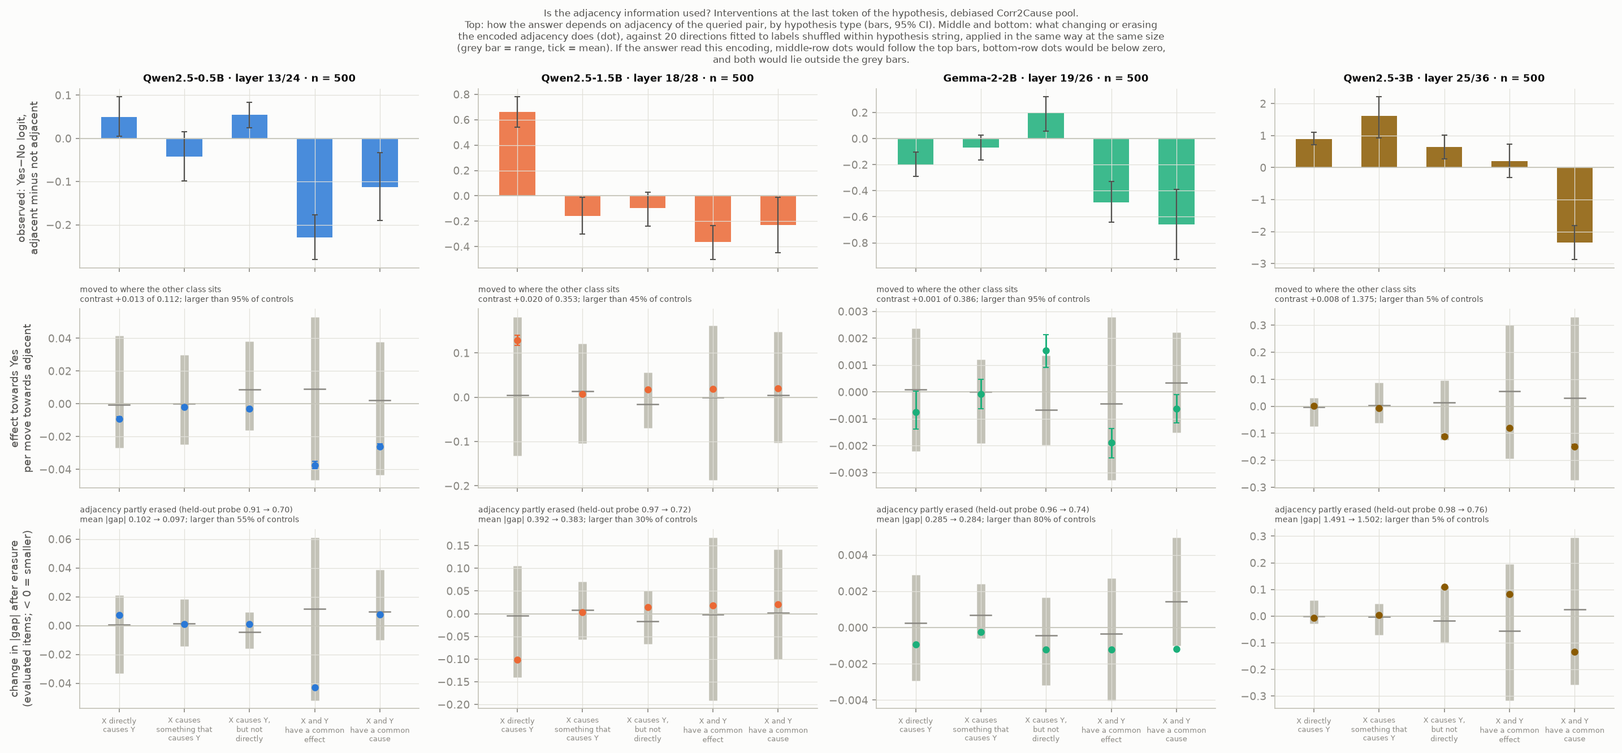
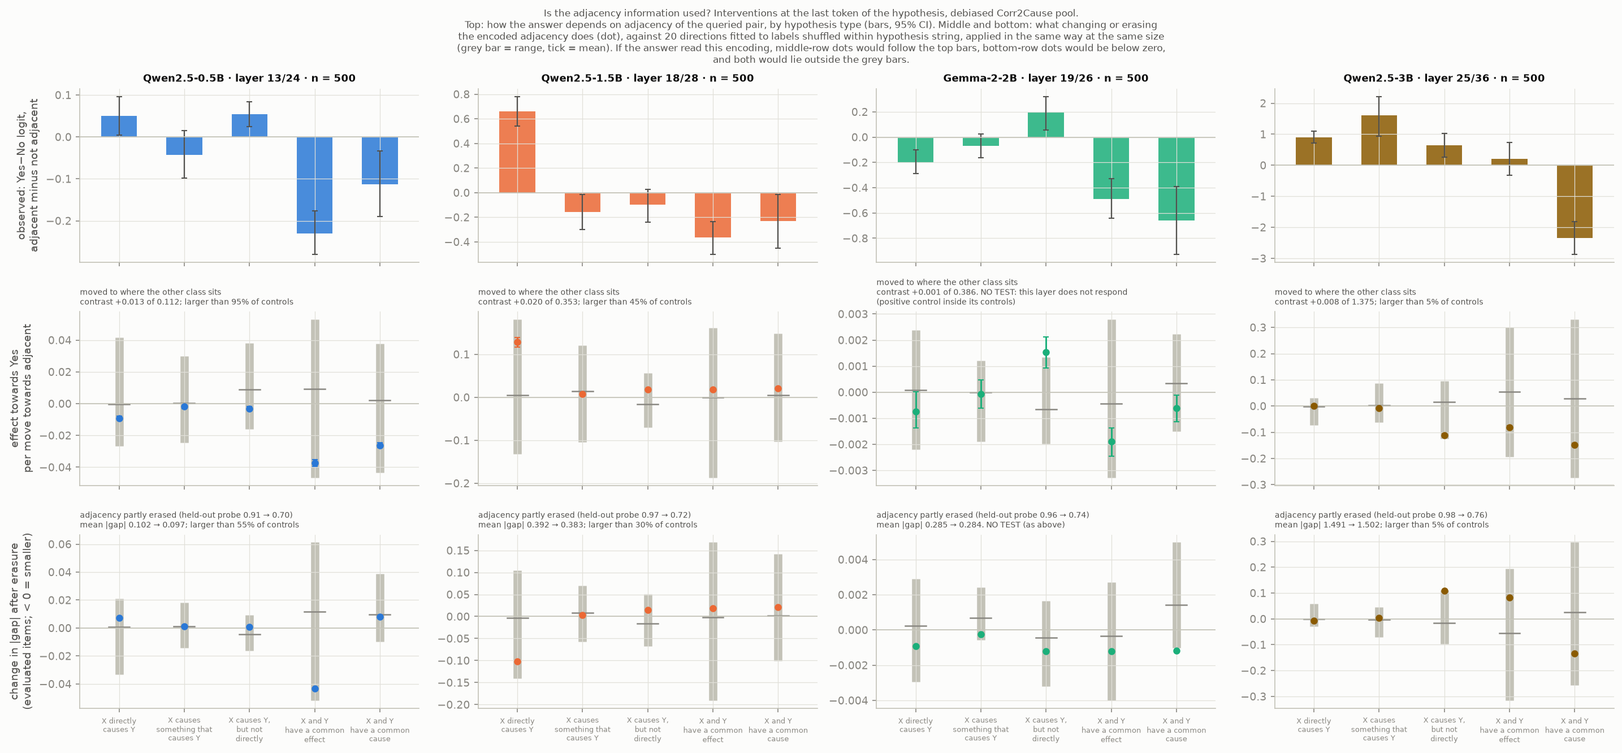
Thirteenth review (wording of the proposed RESULTS page): raw report; figure 12 marks the layer that does not respond as no test (viewed)

diff --git a/scripts/06_figures.py b/scripts/06_figures.py
@@ -485,6 +485,12 @@ def fig_adjacency(site="final_best", name="fig11_adjacency_final.png", where="fi
                 ("erasure", f"adjacency partly erased (held-out probe {q['before']:.2f} → {q['after_erasure']:.2f})",
                  f"mean |gap| {mg['before']:.3f} → {mg['after_erasure']:.3f}; larger than "
                  f"{100 * mg['reduction']['vs_fair_controls']['share_of_controls_smaller_in_absolute_value']:.0f}% of controls"))
+        # a site at which even the positive control (a step along the model-answer direction) does not exceed all its controls
+        # is no test: say so in the panel instead of printing a percentile of noise (wording audit W12, eleventh audit F3)
+        if r["steps"]["model_out"]["per_unit_norm_from_large_step"]["vs_controls"]["share_of_controls_smaller_in_absolute_value"] < 1:
+            rows = ((rows[0][0], rows[0][1], f"contrast {tc['est']:+.3f} of {r['full_mediation_benchmark']:.3f}. NO TEST: this layer does not respond\n"
+                                             "(positive control inside its controls)"),
+                    (rows[1][0], rows[1][1], f"mean |gap| {mg['before']:.3f} → {mg['after_erasure']:.3f}. NO TEST (as above)"))
         for i, (key, lab, note) in enumerate(rows):
             ax = axes[i + 1, j]
             for t_, k in enumerate(TEMPLATE_ORDER):

diff --git a/notes/audit_results_wording_raw.md b/notes/audit_results_wording_raw.md
@@ -1,0 +1,384 @@
+# Wording audit of the proposed RESULTS.md (audit 13, raw report)
+
+Sat 14 Nov 2026. Audited: `results_proposal/RESULTS_proposed_rendered.md` and its template `RESULTS_template_proposed.md`, against `results/*.json`, `report/tables/*.md`, the three embedded figures, the raw audit reports in `notes/`, `notes/claims_pass_14nov_raw.md`, `notes/log.md` and `results/round2_logs_*`. `report/report.md` and `EXPLAINER.md` were not used as evidence (only to confirm that Sections 3.4 and 4.1 exist). Nothing in the repository was written. No model was loaded.
+
+Own scripts, in the audit13 scratch folder:
+- `a_within.py`: pooled and within-string answer statistics for five models, from `cache/<model>/c2c_debiased/meta.json` and `data/derived/c2c_debiased_*.json`, with own AUROC, own adjacency parse, own bootstrap and permutation.
+- `b_probe7b.py`: 7B and 3B probe accuracy on the report half from the saved out-of-fold scores.
+- `c_claim3.py`: the 32 steering comparisons, the alignment file, adjacency shares, direction geometry.
+
+What I did not do: refit any probe (the 7B probe accuracy is recomputed from saved out-of-fold scores only), recompute steering slopes from raw npz files (audits 8 and 11 did; I re-read the JSONs), or check anything about the running held-out ("settle") run beyond what `notes/log.md` records.
+
+## Recomputed numbers
+
+| Quantity | Page | Result file | My recomputation |
+|---|---|---|---|
+| Hypothesis-only AUROC, official test split | 0.895 [0.863, 0.919] | `benchmark_baselines.json` 0.8947 [0.8628, 0.9193], 21 premise clusters | re-read |
+| Probe below strongest text-only classifier | all eight cells | `confound_*`: 8 of 8 paired differences negative, intervals exclude zero (-0.049 to -0.240); also 5 of 5 on the debiased pool | re-read from `audited_verdict.md` |
+| Qwen 3B probe, debiased pool | 0.765 [0.743, 0.788] | same | 0.7652 [0.742, 0.788] from out-of-fold scores |
+| Lookup, hand parse | 0.765, 0.816 | same | re-read |
+| Qwen 7B probe | 0.784 [0.762, 0.806] | `probe_content_qwen7b-4bit`: same; `confound_qwen7b-4bit` (table): [0.760, 0.806] | 0.7837 [0.760, 0.805]; per seed 0.783, 0.773, 0.778 |
+| 7B pooled answer AUROC | 0.514 [0.490, 0.536] | same | 0.5135 |
+| 7B within-string AUROC | 0.549 [0.530, 0.569] | same; p 0.0005 | 0.5491 [0.531, 0.568]; p 0.001 (floor of my 1,000 permutations); 33 of 48 strings above 0.5 |
+| 7B valid item above invalid item of the premise | 53.6% | 0.5358 | 0.5358 [0.510, 0.562]; no ties; 1,200 premises |
+| Same statistic, smaller models | not on page | 0.515, 0.517, 0.508, 0.520 | same (0.5B, 1.5B, Gemma, 3B) |
+| 7B within string and adjacency cell | not on page | 0.589 [0.560, 0.620] | 0.5891 |
+| Steering comparisons, first ranks | 4 of 32, 1.52; 3 of 16, 0.76 | same; P 0.064 and 0.038 | same; at responding sites 4 of 28 (1.33; P 0.042) and 3 of 14 (0.67; P 0.026) |
+| Mean rank, gold class-mean differences | 6.44 of 21 | 6.4375; p 0.0011 | 6.4375. Answer position: 4.00 (debiased), 5.25 (original). End of hypothesis: 5.75 (debiased), 10.75 (original) |
+| Four slopes | +0.738, -0.251, +0.475, +0.865 | same | re-read |
+| Gemma margin | "first by 3%" (typed) | 0.4754 against 0.4622 | ratio 1.029 |
+| Natural-scale effect, 3B arm | +0.023 | 0.0228 | re-read |
+| Adjacency shares, end of hypothesis | 11%, 6%, 1% | `power_option_b_qwen7b.json`: 0.1150, 0.0580, 0.0056 | contrast / benchmark from the adjacency files: 11.5%, 5.8%, 0.56%; Gemma 0.3% |
+| Hypothesis string alone, balanced pool | 86% | 0.85875 | re-read |
+
+## Every sentence and table row
+
+Verdicts: supported / wrong / overstated / stale / unsupported / unclear. "W n" refers to the findings below.
+
+### Header
+
+| # | Sentence | Verdict | Evidence |
+|---|---|---|---|
+| 0 | Question | not a claim | |
+| 1 | "Qwen2.5-0.5B, 1.5B, 3B and Gemma-2-2B on Corr2Cause and CLadder: probes against text-only baselines, steering, patching." | supported | `confound_*`, `steering_*`, `patching_*` for the four models |
+| 2 | "Qwen2.5-7B (4-bit): answers, and probes on the debiased pool." | supported | `answer_bias.json` (four item sets), `probes_qwen7b-4bit_c2c_debiased_*`; no steering or adjacency file for this model |
+| 3 | "Twelve independent audits." | unclear, and stale on arrival (W6) | `notes/`: eleven reports that call themselves audits plus one "claims pass" |
+| 4 | "Numbers are from `results/*.json`; details and all caveats are in `report/report.md`." | supported for the templated numbers; "3%", "of 21", "11 expected" are typed and correct | template |
+
+### Claim 1
+
+| # | Sentence | Verdict | Evidence |
+|---|---|---|---|
+| H1 | Headline | supported | |
+| 5 | Hypothesis-only classifier reaches AUROC 0.895 [0.863, 0.919] | supported; interval rests on 21 premises (W13) | `benchmark_baselines.json`, `corr2cause_official_splits/test/hypothesis_only/auroc` |
+| 6 | "below the strongest text-only classifier in all eight model × benchmark cells" | supported | `confound_<model>_{c2c_probe,cladder}.json`, table `audited_verdict.md` |
+| 7 | "Figure (four of the eight cells)" | supported | fig5 shows four models on the balanced pool |
+| 8 | "Checked by audit 1 ... and audit 6 (recomputed for four models)" | supported | `audit_tier1_raw.md` finding 1; `audit_consolidation_raw.md` (`e_claim1.py`, `f_cells.py`) |
+
+### Claim 2
+
+| # | Sentence | Verdict | Evidence |
+|---|---|---|---|
+| H2a | "With every single-input shortcut removed" | supported | `probe_content_*`, `A0_single_input` all 0.500 |
+| H2b | "a probe on the larger models' activations is as accurate as a lookup ..., no more" | overstated for the 7B model; "the larger models" undefined (W1) | `probe_content_qwen7b-4bit`: probe minus lookup AUROC +0.029 [+0.006, +0.055]; `incremental_value/over_strongest_text_only/gain_accuracy` +0.014 [+0.004, +0.026] |
+| H2c | "pooled over hypothesis types the models answer at chance" | supported by the AUROC criterion; wording ambiguous (W7) | `answer_bias.json`: pooled AUROC intervals include 0.5 for all five; the within-string mean, which also pools the types, is 0.549 for 7B and 0.473 for Gemma |
+| 9 | 3B: probe 0.765 [0.743, 0.788], lookup 0.765, parse 0.816, pooled answers 0.507 [0.484, 0.530] | supported | `probe_content_qwen3b`, `answer_bias.json` |
+| 10 | 7B: probe 0.784 [0.762, 0.806]; pooled answers 0.514 [0.490, 0.536] | supported numerically; misleading by omission, since no comparison is given for the 7B probe (W1) | as above |
+| 11 | "equal accuracy is not equal content (probe and text models are right on partly different items)" | supported | `incremental_value/probe_right_when_hand_parse_wrong` 0.57 to 0.64 |
+| 12 | '"at chance" holds for the pooled items only' | supported | `answers_within_string.md` |
+| 13 | "Inside a hypothesis string the four smaller models' answers follow adjacency of the queried pair, not validity" | supported in substance; "follow" is loose (W14) | `debiased_answers.md` (AUROC for adjacency by type on both sides of 0.5); within-string AUROC 0.506, 0.507, 0.473, 0.511 |
+| 14 | "the 7B model's follow validity, weakly: AUROC within string 0.549 [0.530, 0.569], ... 53.6% of premises" | supported and recomputed; one omission (W8) | `answer_bias.json`, `a_within.py` |
+| 15 | "Checked by audit 3 ..., audits 5 and 6 ..., audit 11 (the 7B model; it found the within-string result)" | overstated for audit 11 (W2) | `audit_runs_b_d_raw.md`, "Could not check": the 7B probe files "were not opened" |
+
+### Claim 3
+
+| # | Sentence | Verdict | Evidence |
+|---|---|---|---|
+| H3 | "No intervention shows that what a probe reads is what the answer is computed from." | supported as a statement of absence, given the caveats | see Task 2 below |
+| 16 | 32 comparisons (four models, two pools, two tokens, two kinds of direction), 20 matched controls each | supported | `steering_controls_multiplicity.json`, `by_arm` (32 entries, `n_controls` 20) |
+| 17 | "exceeds all its controls in 4 of them, where chance gives 1.52; on the debiased pool in 3 of 16 (0.76)" | supported; omission (W9) | `summary/all`, `summary/debiased_pool` |
+| 18 | "None survives a correction for multiple comparisons, and with 20 controls none could." | supported | smallest attainable p 1/21 = 0.048; 0.05/32 = 0.0016 |
+| 19 | 3B, end of hypothesis, class-mean difference, +0.738 per unit step; "a direction loaded on adjacency, not on validity"; +0.023 at natural scale | numbers supported; "not on validity" unsupported (W5); "per unit step" unclear (W15) | `direction_geometry_qwen3b_c2c_debiased_hyp.json` |
+| 20 | 1.5B, same token, gold probe, -0.251, towards "valid" lowers Yes | supported | `steering_controls_qwen1.5b_c2c_debiased_hyp.json`; signed rank 21 of 21 |
+| 21 | Gemma, answer position, gold probe, +0.475; "first by 3% and not robust" | supported | ratio 1.029; eleventh audit F2 (first in 81% of item resamples; non-converged fits) |
+| 22 | 0.5B, original pool, class-mean difference, +0.865; "weaker controls" | supported; token not named (W15) | `steering_controls_qwen0.5b_c2c_probe.json`; controls shuffled over the whole item set |
+| 23 | "taken together the gold class-mean differences do rank above their controls (mean rank 6.44 of 21; 11 expected)" | supported | `summary/all/mean_rank/gold_diffmeans` (p 0.0011) |
+| 24 | "At the answer position that is the answers' dependence on adjacency read back, not a use of validity (report 4.1)." | overstated (W3) | `steering_slope_vs_answer_alignment.json` |
+| 25 | "moves the answer by 11%, 6% and 1% of what the answers' dependence on adjacency would give (...; Gemma-2-2B's layer there responds to nothing)" | arithmetic supported; wording misleading (W4) | `adjacency_*_c2c_debiased_hyp_best.json` |
+| 26 | "At the answer position the same shift does move the answer, alike for every hypothesis type, which locates the answer." | supported; unclear and unquantified (W20) | `adjacency_contrast.md`, `adjacency_transfer_summary.md` |
+| 27 | "No intervention was run on the 7B model." | supported | no such result file |
+| 28 | "A held-out test of the first two cases is running; how each outcome will be read was fixed beforehand." | unclear (W11) | `notes/log.md` 07:56 only |
+| 29 | Figure; "Checked by audits 2, 4, 5, 6, 8 and 11" | supported; figure in tension with sentence 25 for Gemma (W12) | fig12; audit reports |
+
+### Retraction table
+
+| Row | Verdict | Note |
+|---|---|---|
+| 1 "represents the answer but doesn't say it" / 86% / Audit 1 | supported | 0.85875 |
+| 2 "gold-probe direction is inert" / Audit 2 | supported | `audit_tier2_raw.md` findings 1 to 3 |
+| 3 "Patching shows where the answer is formed" / Audit 2 | supported | finding 14 |
+| 4 "beats the shallow controls and adds nothing to the parser" / Audit 3 | supported | findings 1, 2 |
+| 5 "answers do not express what the probe reads" / Audit 3 | supported | opposite signs by template |
+| 6 First adjacency experiment / Audit 4 | supported | F3 |
+| 7 "removes a sixth ... beyond all 20 controls" / Audit 5 | supported | F1 |
+| 8 "letters out of alphabetical order" / Audit 5 | supported | |
+| 9 "Splitting the class difference" / Audit 6 | supported | F4 |
+| 10 "A pre-specified contrast"; "steering stays within the range of its controls" / "true of one model only" / Audit 8 | first half supported (F5); "true of one model only" unclear (W16) | |
+| 11 "First ranks ...: no more than chance gives" / Audit 11 | supported (F4); the claim was a draft, never on this page | |
+| 12 "The 7B model answers the debiased pool at chance" / Audit 11 | supported (F1) | |
+| 13 "Eight bugs (...)" / "Ingest check, own review, audits 4 to 7 and 11" | count matches its own list; attribution partly unverifiable (W17) | |
+
+### Limitations
+
+| # | Sentence | Verdict | Evidence |
+|---|---|---|---|
+| L1 | "Interventions on models of up to 3 billion parameters whose answers do not follow validity. The 7B model follows it weakly, was run in 4-bit quantisation, and was not intervened on. Two benchmarks; linear probes. Nothing here says what a model that can do the task would show." | supported | |
+| L2a | "four models, three of one family" | supported | |
+| L2b | "one layer per model at the end of the hypothesis" | roughly supported (W18) | |
+| L2c | "20 controls per comparison and 32 comparisons without adjustment" | supported | |
+| L2d | "an erasure that removes about half of the readable adjacency on held-out items" | supported for all four models | `adjacency_sites.md`: excess AUROC over 0.5 falls by 44% to 53% at the eight best-layer sites |
+| L2e | '"No intervention shows" is not "unused".' | supported | |
+| L3 | "The stronger baselines, the debiased pool, the within-string statistics and every corrected analysis were introduced after seeing results; ..." | supported | notes in the result files |
+| L4a | "Probe accuracies are three-seed ensembles" | supported | `robustness/three_seed_ensemble_accuracy` |
+| L4b | "most probe fits behind the GPU runs' steering directions stopped at the iteration limit" | overstated (W10) | `results/round2_logs_*/*controls*.log` |
+| L5 | 3B CLadder on a different draw | supported | table footnote † |
+
+## Findings
+
+### W1. Must fix. Claim 2's "no more" is contradicted for the 7B model
+
+Evidence, `probe_content_qwen7b-4bit_c2c_debiased.json`:
+- probe minus lookup: accuracy +0.018 [-0.011, +0.049], AUROC **+0.029 [+0.006, +0.055]**;
+- `baselines/summary`: the 7B probe exceeds two binding references and is not distinguishable from the 4-gram classifier (0.805); the four smaller models are below the 4-grams;
+- `incremental_value/over_strongest_text_only/gain_accuracy` **+0.014 [+0.004, +0.026]** (all items +0.012 [+0.003, +0.020]; AUROC +0.005 [+0.002, +0.008]); over the hand parse +0.046 [+0.026, +0.065].
+
+Same key for the others: 0.5B +0.002 [-0.003, +0.008]; 1.5B -0.001 [-0.010, +0.008]; Gemma +0.009 [-0.002, +0.019]; 3B +0.009 [+0.000, +0.018]. Over the hand parse the gain is +0.022 to +0.046, intervals excluding zero, for all four models from 1.5B up. The log (08:34) calls 7B "the first model for which the second interval clearly excludes zero".
+
+"As accurate as the lookup" holds by accuracy for 1.5B, Gemma, 3B and (within its interval) 7B. "No more" reads as "holds nothing beyond the lookup", which the files contradict, most clearly for the one model the page adds. The page also gives the 7B probe number with nothing to compare it with.
+
+Replacement headline: **"2. With every single-input shortcut removed, a probe on the activations of the models from 1.5B to 7B is about as accurate as a lookup of the premise statements about the two queried variables, and less accurate than a hand-written parse; ranked across all items at once, the models' answers are at chance."**
+
+Replacement for the 7B part of the number line: "Qwen2.5-7B: probe {{...gold_probe/accuracy|ci}}; added to the strongest text-only classifier it gains {{probe_content_qwen7b-4bit_c2c_debiased.json|incremental_value/over_strongest_text_only/gain_accuracy|signedci}}, the only model for which that interval clearly excludes zero; pooled answers {{...|ci}}."
+
+### W2. Must fix. "Checked by ... audit 11 (the 7B model ...)" covers the answers, not the probe
+
+`audit_runs_b_d_raw.md`, "Could not check": "Files being written by the running job (`probes_qwen7b*`, `confound_qwen7b*`, `probe_content_qwen7b*`, `logs/q7b_*`) were not opened." The 7B probe accuracy and its increments entered `results/` at 08:28 to 08:45, after that audit's report (08:27). The user's rule in `notes/progress.md` is an independent audit before anything new enters RESULTS.md.
+
+What this audit adds: the 7B probe accuracy on the report half, recomputed from `cache/qwen7b-4bit/c2c_debiased/probe_oof_C0.1.npz` at layer 19, is 0.7837 [0.760, 0.805], matching the file. I did not refit the probe or the text classifiers, and did not recompute the nested stacking behind the increments.
+
+Replacement: "*Checked by* audits 3, 5 and 6 (probe ladder, four models) and 11 (the 7B answers; it found the within-string result). The 7B probe was checked from its saved scores only."
+
+### W3. Must fix. "At the answer position that is the answers' dependence on adjacency read back, not a use of validity"
+
+Evidence, `steering_slope_vs_answer_alignment.json` (debiased pool only, eight sites):
+
+| Site | r of slope with cosine to the answer direction, over the 20 controls | Gold direction: predicted slope | Observed |
+|---|---|---|---|
+| Qwen 0.5B, answer position | **-0.15** | +0.004 | +0.150 |
+| Qwen 1.5B, answer position | +0.90 | +1.60 | +1.89 |
+| Gemma, answer position | +0.93 | -1.79 | -1.80 |
+| Qwen 3B, answer position | +0.96 | +3.22 | +4.02 |
+| End of hypothesis, four models | -0.33 to +0.11 | about 0 | +0.287, +0.095, +0.008, +0.738 |
+
+Four problems with the sentence:
+1. It holds in three of four models. In Qwen 0.5B the relation is absent.
+2. It was measured on the debiased pool only. The mean rank of 6.44 is over both pools and both tokens. The answer position on the debiased pool is 4 of the 16 comparisons (mean rank 4.00). At the end of the hypothesis on the debiased pool the mean rank is 5.75 and this account explains none of it (3B: predicted +0.022, observed +0.738).
+3. The file shows alignment with the answer direction, that is, the answers' within-question correlation with the label. That this correlation runs through adjacency is the author's inference. Within cells of (string, adjacency) the answers of Qwen 1.5B and Gemma still depend on the label, negatively (0.436 and 0.467, both p 0.0005, `answer_bias.json`), so adjacency of the queried pair is not the whole of it. The eleventh audit's wording (F4) is "the behavioural correlation between label and answer, read back through the answer direction".
+4. "Not a use of validity" asserts a negative. The file supports "does not show a use of validity".
+
+Replacement: "At the answer position on the debiased pool this is the answers' own within-question correlation with the label read back: over the 20 controls a direction's slope follows its cosine with the answer direction (r 0.90 to 0.96 in three models, absent in Qwen2.5-0.5B), and the gold direction's cosine predicts its slope. It does not show that validity is used. At the end of the hypothesis this account explains nothing."
+
+### W4. Must fix. "moves the answer by 11%, 6% and 1% of what the answers' dependence on adjacency would give"
+
+The ratios are right: translation contrast over full-mediation benchmark at the best end-of-hypothesis layer is 11.5%, 5.8% and 0.56% (`adjacency_*_hyp_best.json`; identical to the three values in `power_option_b_qwen7b.json`). Three things make the sentence misleading:
+1. Two of the three are inside the range of their 20 controls: Qwen 1.5B has 45% of controls smaller in absolute value, Qwen 3B 5%. The controls span about ±15% (1.5B) and ±7% (3B) of the benchmark. These are not measured effects.
+2. "1%" is 0.56% rounded up; with point-estimate signs for all five types it is -0.7% (`audit5/translation_contrast_under_other_sign_choices`).
+3. Qwen 0.5B's 11.5% is the only one outside its controls (above all 20 signed, 95% in absolute value), and it is a push towards No for all five types (`n_translation_effects_towards_no` 5). The current page says both; the proposed page drops both. Under a headline "No intervention shows ..." the one end-of-hypothesis result outside its controls should not disappear.
+
+The quantity is a signed contrast over the hypothesis types whose observed gap excludes zero, with signs read from items that include the evaluated ones (retraction row 10). It is not an amount by which "the answer moves".
+
+The template reads these from the power-calculation file, whose review is still running. The numbers are a plain ratio of two audited keys, so nothing is wrong, but the page then depends on a file outside the audited set.
+
+Replacement: "Shifting items along the encoding of adjacency at the end of the hypothesis gives 11%, 6% and under 1% of what full mediation of the answers' dependence on adjacency would give (Qwen2.5-0.5B, 1.5B, 3B). Only the first is outside its 20 controls, and it pushes towards No for every hypothesis type. Gemma-2-2B's layer there responds to nothing, the positive control included."
+
+### W5. Must fix. "a direction loaded on adjacency, not on validity"
+
+`direction_geometry_qwen3b_c2c_debiased_hyp.json`: 55% of the direction's squared norm lies in the span of the five adjacency class-mean differences (controls: mean 18%, largest 52%); cosine +0.69 with the direct-causation adjacency difference (largest control 0.55). "Loaded on adjacency" is supported. "Not on validity" is not: the direction is the validity class-mean difference, 45% of it lies outside the adjacency span, and the eighth audit's conclusion (Q1 d, f) is that the comparison "cannot separate" validity from adjacency.
+
+Replacement: "about half of it is the adjacency contrast of the direct-causation hypotheses, so it cannot separate validity from adjacency".
+
+### W6. Must fix. "Twelve independent audits"
+
+`notes/` holds eleven reports that call themselves audits, numbered first to eleventh in their headers and in the log (tier1, tier2, debiased, round2_code, round2_results, consolidation, round3_code, round2_runs, settle_code, settle_code2, runs_b_d), and one "claims pass" (`claims_pass_14nov_raw.md`), which the log does not number. "Twelve" is right only if the claims pass is counted, and then the page's own references ("audit 8", "audit 11") use a numbering in which the twelfth has no number.
+
+This report is a thirteenth review. A review of the power calculation is running. A running review should not be counted.
+
+What the page should carry: the number of raw reports on file when it is built. Once this report is filed: "Eleven independent audits of code and results and two checks of the wording" (thirteen reviews). If the power-calculation review is filed before the build, add it.
+
+### W7. Should fix. "pooled over hypothesis types" is ambiguous
+
+The statistic that is at chance is the AUROC over all 2,400 items at once. The mean within-string AUROC also pools the five hypothesis types, and it is 0.549 (p 0.0005) for 7B and 0.473 (p 0.0025) for Gemma. Table `debiased_answers.md` prints 0.549 [0.526, 0.571] in the 7B row "all templates". Also, for 7B one pooled statistic excludes chance: cross-fitted best-threshold accuracy 0.525 [0.505, 0.543].
+
+Replacement phrase: "ranked across all items at once (ignoring which hypothesis is asked), the models' answers are at chance by AUROC".
+
+### W8. Should fix. "the 7B model's follow validity, weakly"
+
+Supported on average, and beyond adjacency (0.589 [0.560, 0.620], above 0.5 in all five types). Not uniform: for "X directly causes Y", the largest type (14 strings, 700 items), the 7B answers go against validity (0.442 [0.401, 0.483], p 0.005).
+
+The 53.6% compares two items that never share a hypothesis string (0 of 1,200 premises), which is the comparison the page calls insensitive. The same statistic is 52.0% for Qwen 3B. It is a fair measure of size and a poor discriminator.
+
+Replacement: "the 7B model's follow validity on average, weakly, and against it for direct-causation hypotheses (0.442): AUROC within string ..., and the valid item of a premise gets the higher answer logit in 53.6% of premises (Qwen2.5-3B: 52.0%)."
+
+### W9. Should fix. The count of 32 includes four comparisons at sites that respond to nothing
+
+`summary/responding_sites`: 28 comparisons, 4 first ranks, 1.33 expected (P 0.042); debiased pool 14, 3, 0.67 (P 0.026). The page says elsewhere that Gemma's end-of-hypothesis layer responds to nothing and still counts its two comparisons in the denominator. The page also gives expected counts without the probabilities (0.064 and 0.038), and the aggregate mean rank without its p (0.001).
+
+Replacement: "... in 4 of them, where chance gives 1.52 (4 of 28 and 1.33 without the two sites that respond to nothing); on the debiased pool in 3 of 16 (0.76)."
+
+### W10. Should fix. "most probe fits ... stopped at the iteration limit"
+
+ConvergenceWarning counts in `results/round2_logs_*/*controls*.log`, of 22 fits per stage: Qwen 3B 21, 0, 0, 0; Qwen 1.5B 21, 0, 0, 20; Gemma 21, 21, 21, 4. That is 129 of 264, about half; "most" holds for Gemma only (67 of 88). Of the four comparisons the page names, only Gemma's is affected: Qwen 1.5B's stage has no warning, and the other two are class-mean differences.
+
+Replacement: "about half of the probe fits behind the GPU runs' steering directions stopped at the iteration limit (all those behind Gemma-2-2B's first rank, none behind Qwen2.5-1.5B's)."
+
+### W11. Should fix. "A held-out test of the first two cases is running; how each outcome will be read was fixed beforehand."
+
+Nothing in `results/` bears on this. From `notes/log.md` (07:56):
+- the launch reported is Qwen 1.5B's; Qwen 3B's is third in the launch order, so "is running" is confirmed for one of the two;
+- the mapping of outcomes to wording was recorded after the launch and before any output was seen;
+- "held-out" means the direction refitted on the other half of the blocks, which the log says is not an independent draw (cosine 0.84 and 0.53);
+- the threshold corrects for 24 comparisons. Over the 32 the page counts, the smallest p the test can give (1/501) is above 0.05/32.
+
+The sentence will be stale the day a result arrives.
+
+Replacement: "A test of the first two with the direction refitted on the other half of the data and 500 controls is under way; its reading was written down before any output was seen."
+
+### W12. Should fix. Figure 12 against the text
+
+The Gemma column is annotated "contrast +0.001 of 0.386; larger than 95% of controls" and "mean |gap| 0.285 → 0.284; larger than 80% of controls", with no mark that the positive control fails there. The page says this layer "responds to nothing". A reader of the figure alone sees a result at the edge of its controls. The table marks the site (◊); the figure does not. The Qwen 0.5B column says "larger than 95% of controls", which the page no longer mentions (W4).
+
+Fix: mark the Gemma column in the figure ("site does not respond: positive control inside its controls"), or say so in the caption line.
+
+Figures 5 and 13 agree with the text. Figure 13 shows the 7B probe between the lookup and the 4-gram classifier, which fits the replacement headline in W1 better than "no more".
+
+### W13. Should fix (carried over from the sixth audit, m15). The 0.895 interval rests on 21 premises
+
+`benchmark_baselines.json`: `n_clusters` 21. The eleventh audit calls such intervals "rough". Three words in the number line: "(21 premises)".
+
+### W14. Optional. "follow adjacency of the queried pair"
+
+The dependence has opposite signs by hypothesis type and by model (fig12, top row). "Depend on" is more exact than "follow".
+
+### W15. Optional. Two unclear labels in "The four"
+
+- "logits per unit step": one step is 11.5 natural SDs of the direction (`natural_scale/one_s_in_natural_sds`). Say "per step of 11 natural SDs", or drop the unit and keep "+0.023 at natural scale".
+- The Qwen 0.5B case does not name its token (answer position).
+
+### W16. Optional. Retraction row 10, "true of one model only"
+
+The retracted sentence was about the gold probe's weight vector. For that direction it is true of two of four models (Qwen 0.5B ranks 6, 12, 17, 9; Qwen 3B 17, 16, 5, 4) and false for two (Qwen 1.5B, Gemma). Counting both gold directions on the debiased pool it is true of Qwen 0.5B only. Replacement: "false for three of the four models once both gold directions are counted".
+
+### W17. Optional. The bug row
+
+- The list has eight entries. The log and the audits record more defects than these (fourth audit F2 and F10; seventh audit, one critical and eight major; ninth and tenth audits of the settle script). "Eight" is a selection.
+- I can tie listed bugs to: the ingest check (sample); own review (interval, discarded folder, two-GPU capture, figure script, second ingest overwrite); the fourth audit (fix not applied, per sixth audit m14); the sixth audit (first ingest overwrite, F5). I could not tie any of the eight to audits 5, 7 or 11.
+
+Replacement: "Eight bugs that reached a result or a run (`notes/log.md`) | | Ingest check, own review, audits 4 and 6".
+
+### W18. Optional. "one layer per model at the end of the hypothesis"
+
+Steering used one layer per model and pool (the layer differs between pools: 13/11, 19/17, 21/15, 25/25). The adjacency test used two layers per token; the earlier one fails its positive control in every model, and Gemma has no responding end-of-hypothesis layer on the debiased pool. "At most one responding layer per model" is the accurate form.
+
+### W19. Optional. Two small things
+
+- The 7B probe interval is [0.762, 0.806] on the page (`probe_content`) and [0.760, 0.806] in tables `text_baselines.md` and `audited_verdict.md` (`confound`). Two bootstrap runs; harmless, visible to a reader who compares.
+- "Independent audits": the raw reports describe "a fresh reviewer agent" given code and results. The page does not say that the auditors are reviewer agents commissioned by the author.
+
+### W20. Should fix. "At the answer position the same shift does move the answer, alike for every hypothesis type"
+
+Supported:
+- contrast at the best answer-position layer is 98%, 64%, 69% and 56% of the benchmark (0.5B, 1.5B, Gemma, 3B);
+- the effect matrix is 100%, 99%, 97% and 92% rank one;
+- in the cells where target and source signs differ, the effect follows the source vector in all four models.
+
+Two gaps. The shift is beyond all 20 controls in two of four models only (0.5B and 3B; 85% and 90% in the others). And "alike for every hypothesis type" can be read as "all five shifts push the same way", which is false (4, 4, 4 and 1 of 5 towards No).
+
+Replacement: "At the answer position the same shift moves the answer (beyond all controls in two of four models), and a given shift acts the same way on items of every hypothesis type, so it locates the answer."
+
+## Task 2. The three headline claims
+
+**Claim 1: supported.** All eight cells (four models, balanced pool and CLadder) are negative with intervals excluding zero. The same holds in all five debiased-pool cells, 7B included.
+
+**Claim 2: not supported as worded.**
+- "As accurate as a lookup": holds for 1.5B, Gemma, 3B (differences -0.013, -0.002, 0.000) and within the interval for 7B (+0.018).
+- "No more": contradicted for 7B (W1).
+- "Pooled ... at chance": holds for all five models by the AUROC criterion, with the wording problem in W7.
+
+**Claim 3: supported as an absence claim.**
+- (i) The four comparisons beyond their controls are named and called undecided. None can survive correction.
+- (ii) The aggregate is stated. Its explanation is over-specific (W3).
+- (iii) The alignment file supports the answer-position reading in three of four models, on the debiased pool. It does not support "adjacency" as such, and it leaves the end-of-hypothesis ranking unexplained, including the Qwen 3B case.
+- (iv) Adjacency, four models: at the end of the hypothesis nothing is beyond controls except Qwen 0.5B's uniform push towards No; at the answer position there is a rank-one answer shift. Nothing here contradicts the headline. The page's summary of it needs W4 and W20.
+- "At the answer position that is the answers' dependence on adjacency read back, not a use of validity" is not a fair one-sentence statement for every model it covers: not Qwen 0.5B, not the original pool, and "adjacency" is inference.
+- "Moves the answer by 11%, 6% and 1%" is the correct ratio and a misleading description (W4).
+
+## Task 3. The 7B statement
+
+| Required element | Present | Correct |
+|---|---|---|
+| Pooled AUROC at chance | yes, 0.514 [0.490, 0.536] | yes |
+| Within-string AUROC 0.549 | yes, with interval | yes; recomputed 0.5491 [0.531, 0.568] |
+| Valid item ranked higher in 53.6% of premises | yes | yes; recomputed 0.5358, interval [0.510, 0.562] |
+| 4-bit quantisation as a limitation | yes, Run line and first limitation | yes |
+
+Stronger than the files: "follow validity" without "on average" (W8); claim 2's "no more" (W1); the audit-11 clause (W2).
+
+Weaker than the files: the page omits that the 7B answers follow validity beyond adjacency (0.589), the eleventh audit's main point.
+
+Not on the page: the 7B forward pass ran in bfloat16 with batch noise of SD 0.17 in the logits (eleventh audit F6), which can only attenuate.
+
+## Task 4. C1 to C9
+
+| Item | Resolved | Correctly |
+|---|---|---|
+| C1 "six independent audits" | yes, "Twelve" | number needs settling (W6) |
+| C2 "three of the eight cells" | yes, "four" | yes |
+| C3 "pre-specified contrast" | yes, removed and entered in the retraction table | yes |
+| C4 "in Qwen2.5-0.5B ... One model so far" | yes, four models | partly: two nulls are presented as effects and the 0.5B control comparison is dropped (W4) |
+| C5 "stays within the range of matched controls" | yes, replaced by the 32-comparison count and retracted | yes, apart from "true of one model only" (W16) |
+| C6 answer-position sentence | yes, rewritten for four models | partly: R² dropped, "alike for every hypothesis type" ambiguous (W20) |
+| C7 figure and text inconsistent | yes, text covers all four columns | Gemma column annotation conflicts with "responds to nothing" (W12) |
+| C8 limitations | yes: four models; the final-token-only clause removed; 7B result in place of "running"; non-convergence and multiplicity added | "most probe fits" overstated (W10); "one layer per model" loose (W18) |
+| C9 retraction table | yes, three rows added | yes |
+
+## Task 5. The owner's instruction for claim 3
+
+| Instruction | Carried out |
+|---|---|
+| Keep the headline | yes, unchanged |
+| Say that no intervention result survives correction for multiple comparisons | yes, for the four comparisons, which is the form the files support |
+| Name all four beyond-control arms as undecided | yes |
+| 4 of 32, 1.5 expected; 3 of 16 on the debiased pool | yes (1.52; 0.76) |
+
+One thing the owner should know. Taken literally, "no intervention result survives correction" is not true of the aggregate: the mean-rank result has p 0.0011 (both directions together 0.0003), which survives any plausible correction. The page handles this correctly by limiting "None survives" to the four and stating the aggregate.
+
+Nothing on the page contradicts the instruction. What goes beyond the evidence is W3, W4 and W5.
+
+## Task 6. Omissions
+
+In order of weight:
+1. The 7B probe's increment over the strongest text-only classifier (W1).
+2. The Qwen 0.5B adjacency contrast at the end of the hypothesis is outside its 20 controls (W4).
+3. Responding-site counts for the steering comparisons (W9).
+4. The answer-position account fails in Qwen 0.5B and was not measured on the original pool (W3).
+5. 7B: against validity for direct-causation hypotheses; with validity beyond adjacency (W8).
+6. 21 premises behind the 0.895 interval (W13).
+
+Checked and found not to need a mention: SAE ablation, patching by template, cross-model comparison, behaviour on the original item sets. None conflicts with a sentence on the page.
+
+Figures: fig5 and fig13 agree with the text; fig12's Gemma column does not (W12).
+
+## Task 7. Cuts
+
+The page is 1,164 words by `wc`. The fixes above add about 70. To land near 950, cut about 280:
+
+| Cut | Words saved |
+|---|---|
+| Retraction row 13: replace the parenthetical list of bugs by "Eight bugs that reached a result or a run" | 30 |
+| Move retraction rows 8 ("alphabetical order") and 9 ("splitting the class difference") to the report; neither sentence was ever on this page | 40 |
+| Move retraction row 11 to the report (a draft wording; the caveat under claim 3 already says it) | 35 |
+| Move retraction row 12 to the report (its content is claim 2's caveat and the audit-11 clause) | 28 |
+| Merge rows 2+3 (audit 2), 4+5 (audit 3), 6+7 (adjacency experiments) | 20 |
+| "The four, all undecided": one clause per case, no second parenthesis | 25 |
+| Claim 1 "Checked by": "audits 1 and 6" | 15 |
+| Claim 2 "Checked by": as in W2, short form | 10 |
+| Drop "No intervention was run on the 7B model." from claim 3 (it is in the first limitation) | 9 |
+| Drop "20 controls per comparison and 32 comparisons without adjustment" from the second limitation (it is in claim 3's number line) | 10 |
+| Move the fifth limitation (3B CLadder draw) to the report; no 3B CLadder number is on the page | 17 |
+| Move "Probe accuracies are three-seed ensembles" to the report | 5 |
+| Drop the two "*Figure:* `figNN.png`" labels where the image follows directly; keep "(four of the eight cells)" | 8 |
+| Drop '"at chance" holds for the pooled items only' if the headline says "ranked across all items at once" | 10 |
+| Drop "(report 4.1)" | 2 |
+| Total | about 265 |
+
+Sentences that must stay for the page not to mislead: the 7B within-string sentence, the four named comparisons, the aggregate mean-rank sentence with its corrected explanation, '"No intervention shows" is not "unused"', and the third limitation (post hoc analyses).
